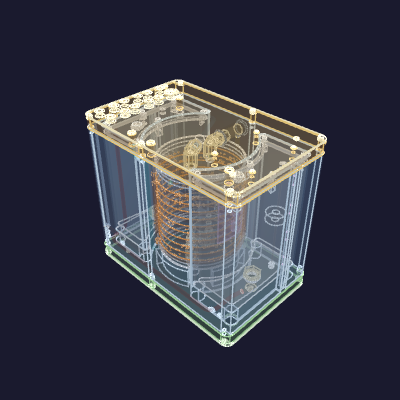
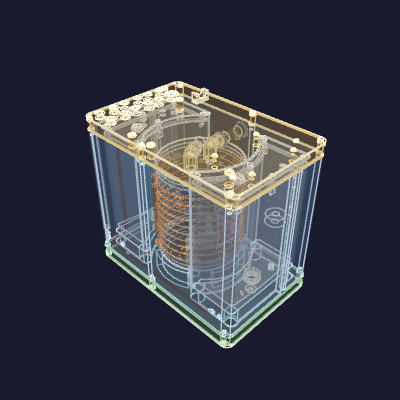
the cards and sidecars ride the rib on the cap lid
The syncs the anchor's commit owed: both cold-core cards re-derived, and
the six docs whose sources now include `_cold_core_interface`,
`seaflo_discharge_chain` and the layout modules the rib moved.

Changed region(s): [[0.21, 0.18, 0.84, 0.87], [0.57, 0.57, 0.6, 0.6]]

diff --git a/hardware/ledger/bom.md b/hardware/ledger/bom.md
@@ -137,15 +137,15 @@ The wetted surface is the print itself, qualified by [`wetted-surface-test.md`](
 | Flavor reservoir cap — right | 1 | PETG (translucent) | 0.058 | $0.65 <!--@printed--> |
 | Enclosure — front bottom + front top (two pieces) | 1 set | PETG | 1.901 | $21.30 <!--@printed--> |
 | Carbonator reed bridge | 1 | PETG | 0.008 | $0.09 <!--@printed--> |
-| Enclosure — back bottom + back top (two pieces) | 1 set | PETG | 1.986 | $22.25 <!--@printed--> |
+| Enclosure — back bottom + back top (two pieces) | 1 set | PETG | 1.987 | $22.26 <!--@printed--> |
 | Drip pan | 1 | PETG | 0.031 | $0.35 <!--@printed--> |
 | Fuse clamp | 1 | PETG | 0.007 | $0.08 <!--@printed--> |
 | Cap-sense sleeve (2-piece clamshell) | 2 sets | PETG | 0.004 | $0.04 <!--@printed--> |
 | Faucet touch-flo shell (3-piece: bottom + middle + top) | 1 | PET-CF | 0.150 | $5.92 <!--@printed--> |
 | Faucet mounting plate | 1 | PET-CF | 0.013 | $0.53 <!--@printed--> |
-| **Printed parts total** | | | **~6.95** | **[$82.42](BOM_SEC7)** |
+| **Printed parts total** | | | **~6.95** | **[$82.43](BOM_SEC7)** |
 
-By material: PETG ≈ 6.78 kg / $75.95 — of which the four translucent reservoir parts are ≈ 0.88 kg / $9.85 — and PET-CF ≈ 0.16 kg / $6.44.
+By material: PETG ≈ 6.78 kg / $75.96 — of which the four translucent reservoir parts are ≈ 0.88 kg / $9.85 — and PET-CF ≈ 0.16 kg / $6.44.
 
 Each cap lid ships bolted to its cap. It is the pour clamp at [`cold-core.md`](/hardware/assembly/cold-core.md) step 3 and stays: the six M3 × 25 SHCS per face pass through lid and cap into the shell-face inserts, the CO2 line enters through the top lid's tube hole, and the top lid's outer face is the plane the whole water deck and the power column stand on. The top lid also carries the [3](CAP_CRADLES) valve cradles — four bosses printed into that face per valve that stands on it (`_cold_core_interface.cap_cradles`, [`valve-seat/`](/hardware/printed-parts/valve-seat/)) — which is why it outweighs the bottom one. The cradles are a press fit and take no screw. The top cap under it carries the [4](DECK_INSERTS) deck-mount columns, which are the cap's rotation key and the water pump's own bolt pattern: its bracket bolts down into all [4](PUMP_MOUNT_SCREWS).
 
@@ -282,7 +282,7 @@ Per-appliance tools that ship in the install kit so the field installer can cut 
 | 4. CO2 subsystem | [$93.10](BOM_SEC4) |
 | 5. Refrigeration | [$142.25](BOM_SEC5) |
 | 6. Cold core insulation | [$15.62](BOM_SEC6) |
-| 7. Printed parts (PETG + PET-CF) | [$82.42](BOM_SEC7) |
+| 7. Printed parts (PETG + PET-CF) | [$82.43](BOM_SEC7) |
 | 8. Flavor subsystem | [$201.42](BOM_SEC8) |
 | 9. Dispensing | [$60.29](BOM_SEC9) |
 | 10. UI | [$0.00](BOM_SEC10) |
@@ -290,7 +290,7 @@ Per-appliance tools that ship in the install kit so the field installer can cut 
 | 12. Level sensing | [$37.50](BOM_SEC12) |
 | 13. Mechanical attach hardware + reservoir-cap vent filter | [$9.80](BOM_SEC13) |
 | 14. Install kit | [$4.29](BOM_SEC14) |
-| **Total** | **[$1,285.24](BOM_GRAND)** |
+| **Total** | **[$1,285.25](BOM_GRAND)** |
 
 ## External / user-supplied (not shipped)
 

diff --git a/hardware/ledger/machine-time.md b/hardware/ledger/machine-time.md
@@ -17,11 +17,11 @@ Masses come from bom.md §7, which is geometry-derived and commit-gated, so a pr
 
 | Group | Parts | Rate | Mass | Hours |
 |---|---|---|---:|---:|
-| Bulk PETG, 0.8 nozzle | Cold-core shell, both enclosure sets, four foam-cap pieces | [10.8](MT_RATE_BULK) h/kg — **measured** | [5.829](MT_KG_BULK) kg | [63.0](MT_H_BULK) |
+| Bulk PETG, 0.8 nozzle | Cold-core shell, both enclosure sets, four foam-cap pieces | [10.8](MT_RATE_BULK) h/kg — **measured** | [5.830](MT_KG_BULK) kg | [63.0](MT_H_BULK) |
 | Watertight translucent PETG | Both reservoir bodies + caps — 3 mm walls, Arachne, fine nozzle for a syrup-tight wall ([watertight-petg.md](/hardware/printed-parts/cold-core/reservoir/watertight-petg.md)) | [22](MT_RATE_TIGHT) h/kg — est., ~½ the bulk volumetric rate | [0.880](MT_KG_TIGHT) kg | [19.4](MT_H_TIGHT) |
 | Small PETG parts | Drip pan, plug stack, PRV shroud, reed bridge, fuse clamp | [30](MT_RATE_SMALL) h/kg — est., travel and layer-change overhead dominate a small part | [0.072](MT_KG_SMALL) kg | [2.2](MT_H_SMALL) |
 | PET-CF, 0.4 nozzle | Faucet touch-flo shell + mounting plate — fine layers, 50 °C chamber, hardened nozzle | [60](MT_RATE_PETCF) h/kg — est. | [0.163](MT_KG_PETCF) kg | [9.8](MT_H_PETCF) |
-| **Printer time per unit** | | | **[6.944](MT_KG)** kg | **[94.3](MT_H_PRINT)** |
+| **Printer time per unit** | | | **[6.945](MT_KG)** kg | **[94.3](MT_H_PRINT)** |
 
 Spread across [2](MT_PRINTERS) machines that is **[47.1](MT_H_PRINT_WALL) hours** of wall clock, and it is the longest pole in the build by an order of magnitude.
 
